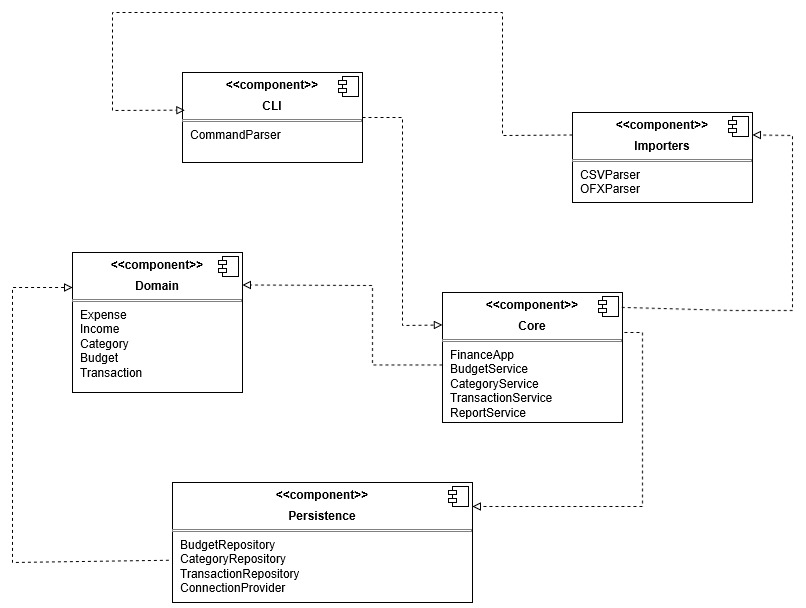
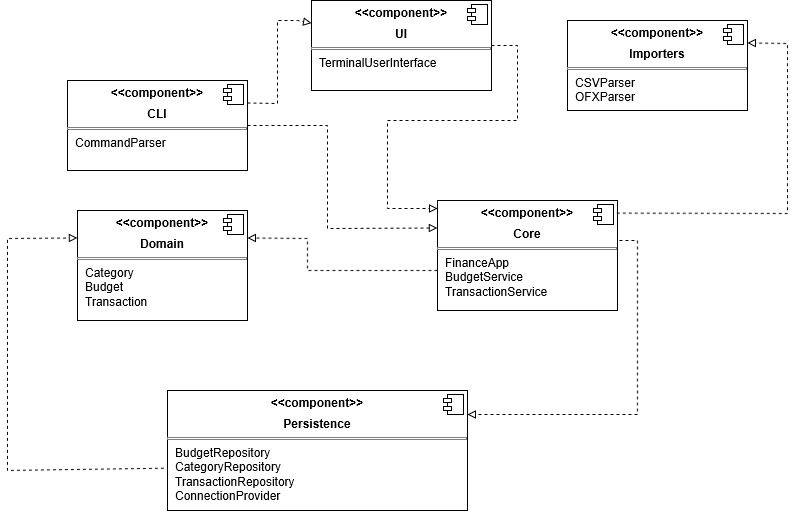
add tui to architecture scheme

diff --git a/src/cli.rs b/src/cli.rs
@@ -66,10 +66,10 @@ where
             match app.add(kind, date, amount, category_id, description) {
                 Ok(()) => println!("Income|Expense added."),
                 Err(e) => match e {
-                    AddTransactionError::Domain(domain_err) => {
+                        AddTransactionError::Domain(domain_err) => {
                         eprintln!("Domain error when adding income|expense: {domain_err:?}");
                     }
-                    AddTransactionError::Persistence(persist_err) => {
+                        AddTransactionError::Persistence(persist_err) => {
                         eprintln!("Persistence error when adding income|expense: {persist_err:?}");
                     }
                 },

diff --git a/src/domain/mod.rs b/src/domain/mod.rs
@@ -1,7 +1,5 @@
 pub mod budget;
 pub mod category;
-pub mod expense;
-pub mod income;
 pub mod transaction;
 
 pub use transaction::{Transaction, TransactionKind, TransactionError};

diff --git a/src/core/mod.rs b/src/core/mod.rs
@@ -1,6 +1,4 @@
 pub mod budget_service;
-pub mod category_service;
 pub mod finance_app;
-pub mod report_service;
 pub mod transaction_service;
 

diff --git a/src/persistence/mod.rs b/src/persistence/mod.rs
@@ -1,5 +1,4 @@
 pub mod budget_repository;
-pub mod category_repository;
 pub mod transaction_repository;
 pub mod connection_provider;
 

diff --git a/README.md b/README.md
@@ -5,11 +5,11 @@ storing data in SQLite, and is designed to be easily extensible.
 
 ## Features
 
-- Import transactions from CSV and OFX files *(planned)* 
+- Import transactions from CSV and OFX files 
 - Manually add **income** and **expenses**  
-- Categorize transactions automatically *(planned)*
-- Set budgets per categories and get alarms *(planned)*  
-- Generate reports such as monthly spending, category breakdown *(planned)*  
+- Categorize transactions automatically
+- Set budgets per categories and get alarms  
+- Generate reports such as monthly spending, category breakdown  
 - Search and filter transactions
 
 ## Architecture Overview
